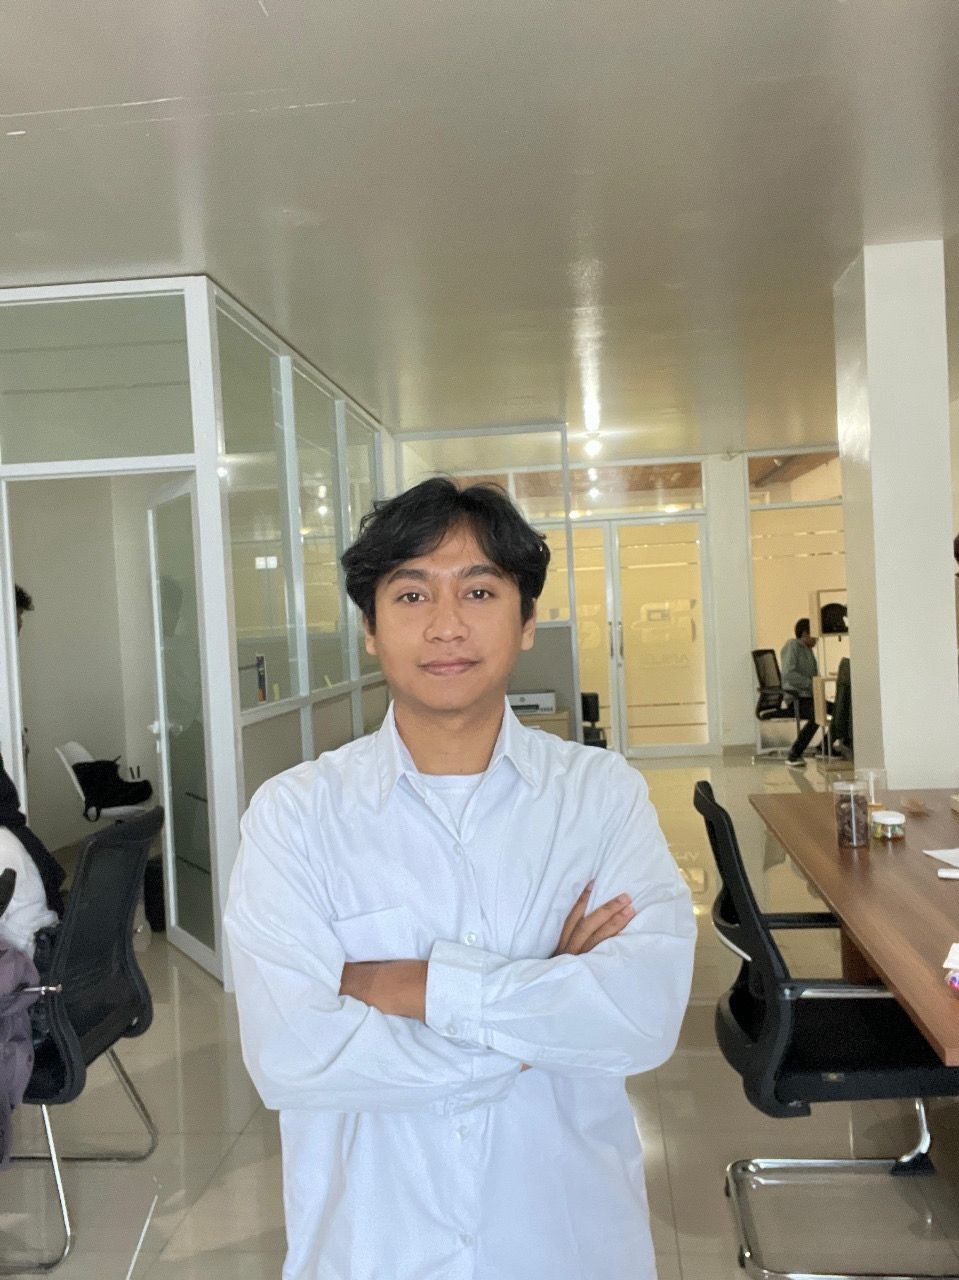
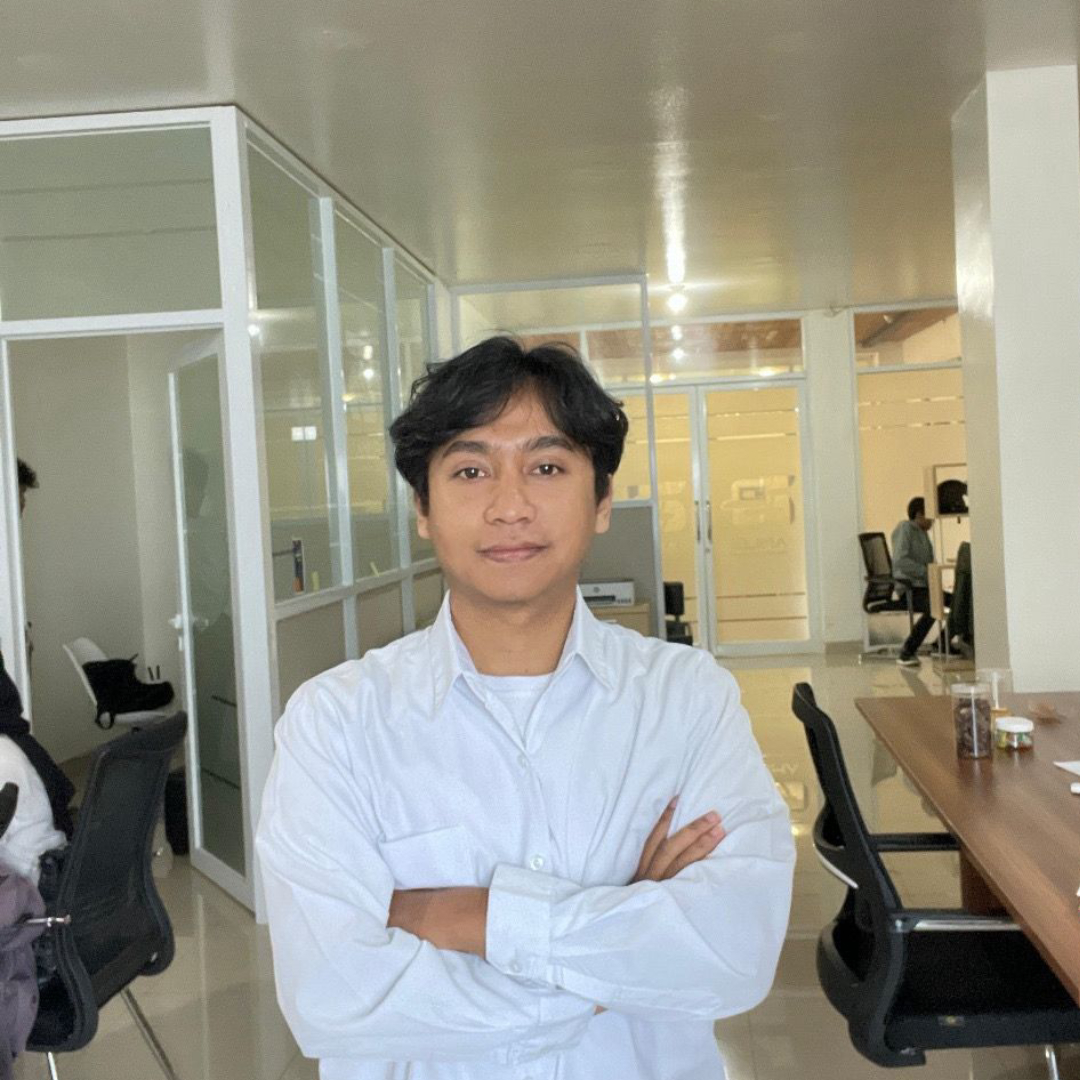
fix profile img

diff --git a/src/views/Home.vue b/src/views/Home.vue
@@ -1,33 +1,35 @@
 <template>
-  <div style="min-height: 550px">
-    <div class="container mt-2 py-5">
-      <div class="row align-items-center mb-5">
-        <div class="col-md-4 text-center">
-          <img
-            src="/logo.png"
-            class="rounded-circle img-fluid profile-img"
-            alt="Profile Photo"
-          />
-        </div>
-        <div class="col-md-8">
-          <h1 class="display-4">{{ name }}</h1>
-          <p class="lead">{{ tagline }}</p>
-          <p>{{ about }}</p>
+  <div class="container mt-3 py-3">
+    <div style="min-height: 550px">
+      <div class="container mt-2 py-5">
+        <div class="row align-items-center mb-5">
+          <div class="col-md-4 text-center">
+            <img
+              src="/yadi.jpg"
+              class="rounded-circle img-fluid profile-img"
+              alt="Profile Photo"
+            />
+          </div>
+          <div class="col-md-8 mt-3">
+            <h1 class="display-4">{{ name }}</h1>
+            <p class="lead">{{ tagline }}</p>
+            <p>{{ about }}</p>
 
-          <div class="skills-container mt-4">
-            <div
-              v-for="(skill, index) in skills"
-              :key="index"
-              :class="['skill-box', index % 2 === 0 ? 'dark' : 'light']"
-            >
-              {{ skill }}
+            <div class="skills-container mt-4">
+              <div
+                v-for="(skill, index) in skills"
+                :key="index"
+                :class="['skill-box', index % 2 === 0 ? 'dark' : 'light']"
+              >
+                {{ skill }}
+              </div>
             </div>
           </div>
-        </div>
-        <div class="row">
-          <div class="col-md-4 text-center"></div>
-          <div class="col-md-8">
-            <echart />
+          <div class="row">
+            <div class="col-md-4 text-center"></div>
+            <div class="col-md-8">
+              <echart />
+            </div>
           </div>
         </div>
       </div>
@@ -80,5 +82,18 @@ const skills = ref([
 .skill-box.light {
   background-color: #e8e6e3; /* warna abu-abu muda */
   color: #000;
+}
+
+.profile-img {
+  width: 150px;
+  height: 150px;
+  object-fit: cover;
+}
+
+@media (min-width: 768px) {
+  .profile-img {
+    width: 250px;
+    height: 250px;
+  }
 }
 </style>
